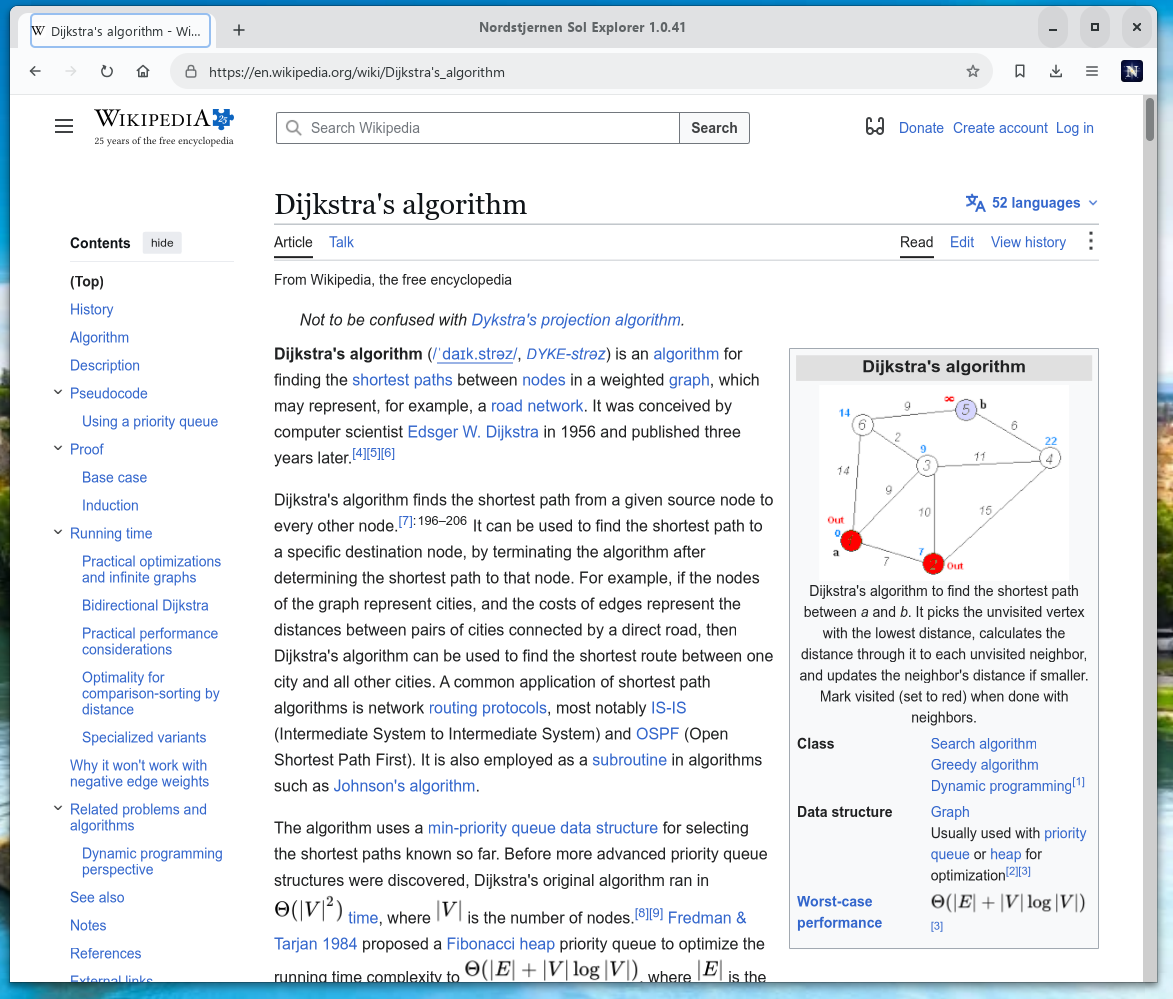
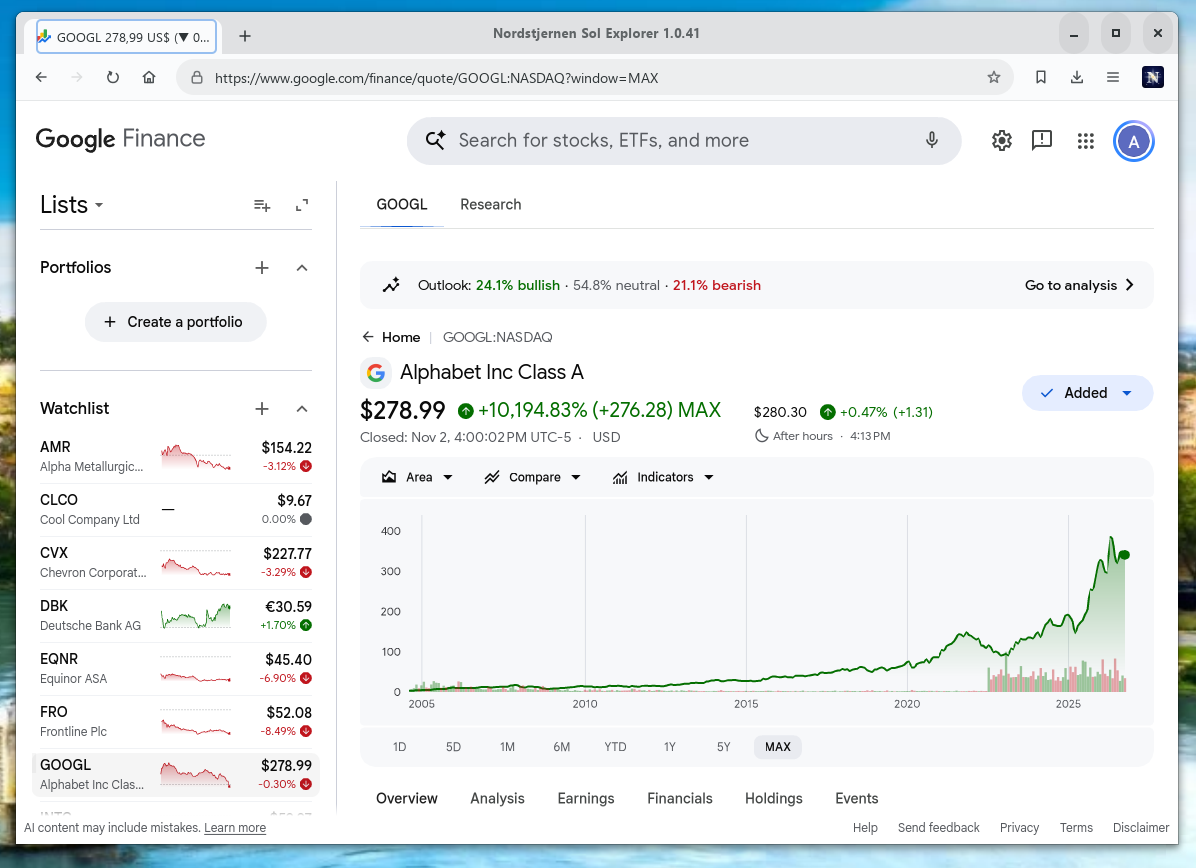
README: new screenshot of Nordstjernen 1.0.41 on Google Finance
The screenshot shows the Alphabet quote page on Google Finance with the
all-time price chart and its gradient area fill, and the watchlist
sparklines with theirs, which render since the SVG reference fix in
#762. The caption describes the new picture.

Changed region(s): [[0.0, 0.0, 1.0, 1.0], [0.6752, 0.8088, 0.7673, 0.8399], [0.8286, 0.4977, 0.8593, 0.5288]]

diff --git a/README.md b/README.md
@@ -11,7 +11,7 @@ and JavaScript standards.
 
 **Windows:** install Nordstjernen Web Browser from the [Windows store](https://apps.microsoft.com/detail/9nw8t7w5z4pl).
 
-![Nordstjernen 1.0.41 showing the Wikipedia article on Dijkstra's algorithm](docs/screenshot.png)
+![Nordstjernen 1.0.41 showing the Alphabet stock chart on Google Finance](docs/screenshot.png)
 
 Supported platforms:
 * [Windows](https://apps.microsoft.com/detail/9nw8t7w5z4pl)
